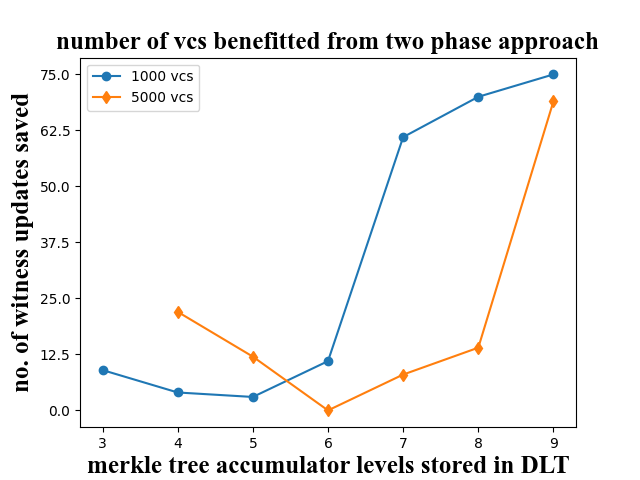
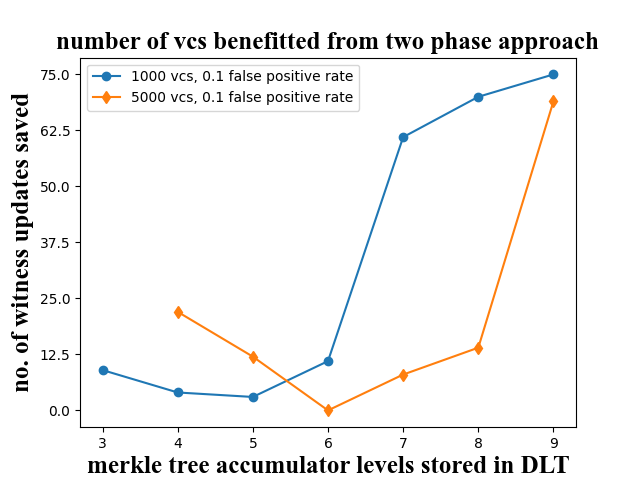
graphs

Changed region(s): [[0.3125, 0.125, 0.5625, 0.2188]]

diff --git a/plots/plot.py b/plots/plot.py
@@ -12,37 +12,54 @@ from setting import Setting
 def main():
 
     entries = parse_entry()
+    # plot_false_positives(entries)
     # plot_merkle_tree_accumulator_cost(entries)
+    # plot_witness_updates_vc_indy(entries)
+    # plot_witness_updates(entries)
     # plot_witness_update_saves(entries)
     # plot_witness_update_saved_for_different_false_positives(entries)
-    plot_witness_update_saved_due_to_levels_in_dlt(entries)
+    # plot_witness_update_saved_due_to_levels_in_dlt(entries)
+    plot_witness_updates_vc_indy(entries)
+
+def plot_witness_updates_vc_indy(entries):
+    mtlevelsfor1000 = []
+    indy = 0
+    witnessUpdatefor1000 = []
+    WitnessUpdatesOfIndy1000 = []
 
 
-def plot_merkle_tree_accumulator_cost(entries):
-    mtlevels = []
-    costs = []
+
+
     for entry in entries:
-        if entry.setting.totalVCs==5000:
-            mtlevels.append(entry.setting.mtLevelInDLT)
-            costs.append(entry.result.mtAccumulatorPerUpdateCost/1000000)
 
-    xpoints = np.array(mtlevels)
-    ypoints = np.array(costs)
-    print(xpoints)
-    print(ypoints)
+        if entry.setting.totalVCs == 1000 and entry.setting.falsePositiveRate == 0.1:
+            mtlevelsfor1000.append(entry.setting.mtLevelInDLT)
+            WitnessUpdates = entry.result.numberOfVCsRetrievedWitnessFromIssuer
+            witnessUpdatefor1000.append(WitnessUpdates)
+            WitnessUpdatesOfIndy1000.append(10000)
+    font = {'fontname': 'Times New Roman', 'size': 17, 'weight': 'bold'}
 
-    costrange=np.linspace(start=min(costs), stop= max(costs), num=len(costs))
+    x1points = np.array(mtlevelsfor1000)
+    print(x1points)
+    x = np.arange(len(x1points))  # the label locations
+    fig, ax = plt.subplots(layout='constrained')
+    # ax = fig.add_axes(x1points)
 
 
-    print(costrange)
-    # font = {'fontname':'Times New Roman', 'color': 'darkred', 'size': 10}
-    font = {'fontname': 'Times New Roman', 'size': 18, 'weight': 'bold'}
-    plt.plot(xpoints, ypoints, marker = 'o')
-    plt.yticks(costrange)
-    plt.xlabel('merkle tree accumulator levels stored in DLT', font)
-    plt.ylabel('MTAcc- per revocation cost in milliether', font)
 
-    plt.savefig("graphs/cost_mt_accumulator.png")
+    wuRange = np.linspace(start=50, stop=max(WitnessUpdatesOfIndy1000),
+                           num=len(x1points))
+
+    ax.bar(x+0.00, witnessUpdatefor1000, color = 'g', width = 0.25, label="two phase technique")
+    ax.bar(x + 0.25,WitnessUpdatesOfIndy1000, color = 'r', width = 0.25, label="indy")
+    ax.set_title('indy V two phase technique: 1000 vcs, 100 revocations',font)
+    ax.set_ylabel('no of vcs requried to witness updates', font)
+    ax.set_xlabel('merkle tree accumulator levels in DLT', font)
+    ax.set_xticks(range(len(x1points)), x1points)
+    ax.set_yticks(wuRange)
+    ax.legend()
+    plt.savefig("graphs/witness_updates_indy_vs_ours.png")
+
 
 
 
@@ -79,14 +96,124 @@ def plot_witness_update_saves(entries):
     print(wusRange)
     # font = {'fontname':'Times New Roman', 'color': 'darkred', 'size': 10}
     font = {'fontname': 'Times New Roman', 'size': 18, 'weight': 'bold'}
-    plt.plot(x1points, y1points, marker = 'o', label="1000 vcs")
-    plt.plot(x2points, y2points, marker='d', label="5000 vcs")
+    plt.plot(x1points, y1points, marker = 'o', label="1000 vcs, 0.1 false positive rate")
+    plt.plot(x2points, y2points, marker='d', label="5000 vcs, 0.1 false positive rate")
     plt.yticks(wusRange)
     plt.title('number of vcs benefitted from two phase approach', font)
     plt.xlabel('merkle tree accumulator levels stored in DLT', font)
     plt.ylabel('no. of witness updates saved', font)
     plt.legend()
     plt.savefig("graphs/witness_updates_saved.png")
+
+def plot_false_positives(entries):
+    mtlevelsfor1000 = []
+    mtlevelsfor5000 = []
+    falsePositiviesfor1000 = []
+    falsePositiviesfor5000 = []
+
+    for entry in entries:
+        if entry.setting.totalVCs == 5000 and entry.setting.falsePositiveRate==0.1:
+            mtlevelsfor5000.append(entry.setting.mtLevelInDLT)
+            falsePositiviesfor5000.append(entry.result.numberOfActualFalsePositives)
+
+        if entry.setting.totalVCs == 1000 and entry.setting.falsePositiveRate == 0.1:
+            mtlevelsfor1000.append(entry.setting.mtLevelInDLT)
+            falsePositiviesfor1000.append(entry.result.numberOfActualFalsePositives)
+
+    x1points = np.array(mtlevelsfor1000)
+    y1points = np.array(falsePositiviesfor1000)
+    x2points = np.array(mtlevelsfor5000)
+    y2points = np.array(falsePositiviesfor5000)
+    print(x1points)
+    print(y1points)
+    print(x2points)
+    print(y2points)
+
+    wusRange = np.linspace(start=0, stop=max(max(falsePositiviesfor1000), max(falsePositiviesfor5000)),
+                           num=max(len(x1points), len(x2points)))
+
+    print(wusRange)
+    # font = {'fontname':'Times New Roman', 'color': 'darkred', 'size': 10}
+    font = {'fontname': 'Times New Roman', 'size': 18, 'weight': 'bold'}
+    plt.plot(x1points, y1points, marker='o', label="1000 vcs, 0.1 false positive rate")
+    plt.plot(x2points, y2points, marker='d', label="5000 vcs, 0.1 false positive rate")
+    plt.yticks(wusRange)
+    plt.title('number of occured false positives', font)
+    plt.xlabel('merkle tree accumulator levels stored in DLT', font)
+    plt.ylabel('false positivies', font)
+    plt.legend()
+    plt.savefig("graphs/false_positivies.png")
+
+
+def plot_merkle_tree_accumulator_cost(entries):
+    mtlevels = []
+    costs = []
+    for entry in entries:
+        if entry.setting.totalVCs==5000:
+            mtlevels.append(entry.setting.mtLevelInDLT)
+            costs.append(entry.result.mtAccumulatorPerUpdateCost/1000000)
+
+    xpoints = np.array(mtlevels)
+    ypoints = np.array(costs)
+    print(xpoints)
+    print(ypoints)
+
+    costrange=np.linspace(start=min(costs), stop= max(costs), num=len(costs))
+
+
+    print(costrange)
+    # font = {'fontname':'Times New Roman', 'color': 'darkred', 'size': 10}
+    font = {'fontname': 'Times New Roman', 'size': 18, 'weight': 'bold'}
+    plt.plot(xpoints, ypoints, marker = 'o')
+    plt.yticks(costrange)
+    plt.xlabel('merkle tree accumulator levels stored in DLT', font)
+    plt.ylabel('mili ether', font)
+
+    plt.savefig("graphs/cost_mt_accumulator.png")
+
+
+
+def plot_witness_updates(entries):
+    mtlevelsfor1000 = []
+    mtlevelsfor5000 = []
+    witnessUpdateSavesfor1000 = []
+    witnessUpdateSavesfor5000 = []
+
+    for entry in entries:
+        if entry.setting.totalVCs==5000:
+            mtlevelsfor5000.append(entry.setting.mtLevelInDLT)
+            savedWitnessUpdates = entry.result.numberOfVCsRetrievedWitnessFromIssuer
+            witnessUpdateSavesfor5000.append(savedWitnessUpdates)
+
+        if entry.setting.totalVCs==1000 and entry.setting.falsePositiveRate==0.1:
+            mtlevelsfor1000.append(entry.setting.mtLevelInDLT)
+            savedWitnessUpdates = entry.result.numberOfVCsRetrievedWitnessFromIssuer
+            witnessUpdateSavesfor1000.append(savedWitnessUpdates)
+
+
+    x1points = np.array(mtlevelsfor1000)
+    y1points = np.array(witnessUpdateSavesfor1000)
+    x2points = np.array(mtlevelsfor5000)
+    y2points = np.array(witnessUpdateSavesfor5000)
+    print(x1points)
+    print(y1points)
+    print(x2points)
+    print(y2points)
+
+    wusRange=np.linspace(start=0, stop= max(max(witnessUpdateSavesfor1000), max(witnessUpdateSavesfor5000)), num=max(len(x1points), len(x2points)))
+
+
+    print(wusRange)
+    # font = {'fontname':'Times New Roman', 'color': 'darkred', 'size': 10}
+    font = {'fontname': 'Times New Roman', 'size': 18, 'weight': 'bold'}
+    plt.plot(x1points, y1points, marker = 'o', label="1000 vcs")
+    plt.plot(x2points, y2points, marker='d', label="5000 vcs")
+    plt.yticks(wusRange)
+    plt.title('number of vcs benefitted from two phase approach', font)
+    plt.xlabel('merkle tree accumulator levels stored in DLT', font)
+    plt.ylabel('no. of vcs retrieved witnesses from issuer', font)
+    plt.legend()
+    plt.savefig("graphs/witness_updates.png")
 
 
 

diff --git a/simulation/Results.go b/simulation/Results.go
@@ -10,7 +10,7 @@ type Results struct {
 	MtDepth int `json:"mt_depth"`
 	NumberOfFalsePositives int `json:"number_of_false_positives"`
 	NumberOfVCsRetrievedWitnessFromIssuer int `json:"number_of_vcs_retrieved_witness_from_issuer"`
-	NumberOfAffectedVCs int `json:"number_of_affected_vcs_by_MT_accumulator"`
+	NumberOfWitnessUpdatesForMT int `json:"number_of_witness_updates_MT_accumulator"`
 	AmountPaid int64 `json:"mt_accumulator_per_update_cost_in_gwei"`
 	NumberOfWitnessUpdatesSaved int `json:"number_of_witness_updates_saved"`
 	BloomFilterSize int `json:"bloom_filter_size"`
@@ -30,7 +30,7 @@ func (r Results) String() string{
 	response = response + "Number of False Positives : "+ fmt.Sprintf("%d",r.NumberOfFalsePositives) + "\t"
 	response = response + "Number of VCS that ended up updating witnesses from issuer: "+fmt.Sprintf("%d",r.NumberOfVCsRetrievedWitnessFromIssuer)+ "\t"
 	response = response + "Amount (in gwei) paid per revocation: "+fmt.Sprintf("%d",r.AmountPaid)+ "\t"
-	response = response + "Number of Affected VCs : "+ fmt.Sprintf("%d",r.NumberOfAffectedVCs) + "\t"
+	response = response + "Number of witness updates due to Merkle Tree Accumulator: "+ fmt.Sprintf("%d",r.NumberOfWitnessUpdatesForMT) + "\t"
 	response = response + "Number of witness updates that we saved : "+fmt.Sprintf("%d",r.NumberOfWitnessUpdatesSaved)+ "\t"
 	return response
 }

diff --git a/main.go b/main.go
@@ -4,7 +4,6 @@ import (
 	"fmt"
 	"github.com/bits-and-blooms/bloom/v3"
 	"github.com/praveensankar/Revocation-Service/config"
-	"github.com/praveensankar/Revocation-Service/simulation"
 	"github.com/spf13/viper"
 	"go.uber.org/zap"
 	"go.uber.org/zap/zapcore"
@@ -77,10 +76,10 @@ func main()  {
 	//testAries()
 	initialize()
 	conf, _ := config.ParseConfig()
-	simulation.Start(conf)
+	//simulation.Start(conf)
 
-	//size, numberofIndexesPerEntry := BloomFilterConfigurationGenerators(conf.ExpectedNumberofRevokedVCs, conf.FalsePositiveRate)
-	//fmt.Println("bloom filter size: ", size, "\t number of hash functions: ", numberofIndexesPerEntry)
+	size, numberofIndexesPerEntry := BloomFilterConfigurationGenerators(conf.ExpectedNumberofRevokedVCs, conf.FalsePositiveRate)
+	fmt.Println("bloom filter size: ", size, "\t number of hash functions: ", numberofIndexesPerEntry)
 	//zap.S().Infoln("bloom filter size: ", size, "\t number of hash functions: ", numberofIndexesPerEntry)
 	//blockchain.TestConnectionToBlockchain(conf)
 	//blockchain.Test(conf)

diff --git a/issuer/Issuer.go b/issuer/Issuer.go
@@ -26,7 +26,7 @@ type IIsser interface {
 	UpdateMerkleProofsInStorage()
 	UpdateMerkleProof(vc verifiable.Credential)
 	UpdateAffectedVCs(conf config.Config, mtIndex *big.Int) int
-
+GetAffectedVCsCount() int
 	// returns whether it resulted in false positive in phase 1
 	VerifyTest(vc verifiable.Credential) (bool, bool)
 }
@@ -236,6 +236,10 @@ func (issuer *Issuer) UpdateAffectedVCs(conf config.Config, mtIndex *big.Int) ([
 		}
 	}
 	return affectedIndexes, actualAffectedVCs
+}
+
+func (issuer *Issuer) GetAffectedVCsCount() (int) {
+	return len(issuer.AffectedVCIndexes)
 }
 
 // returns number of affected vcs, amount of gwei paid
